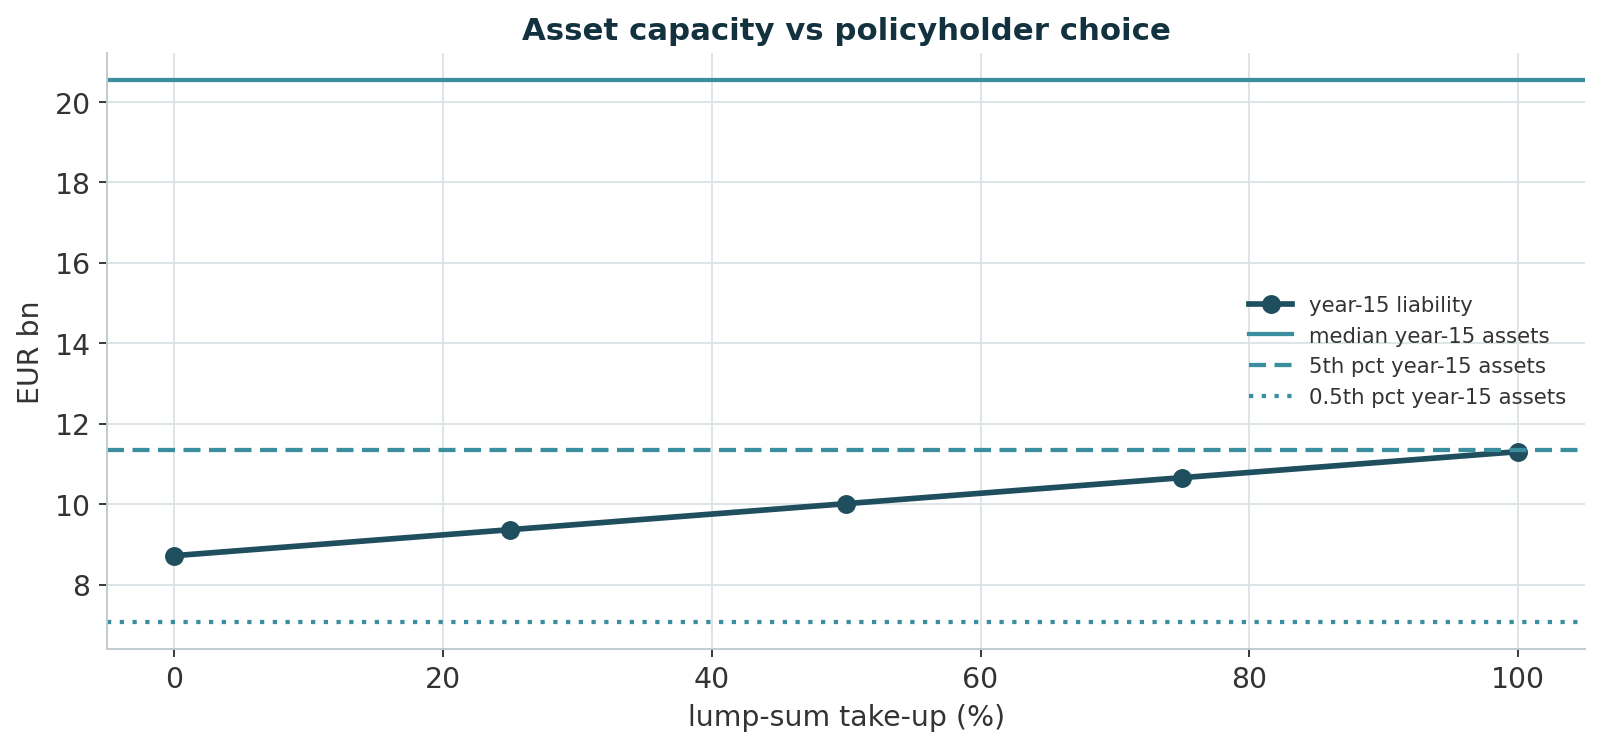
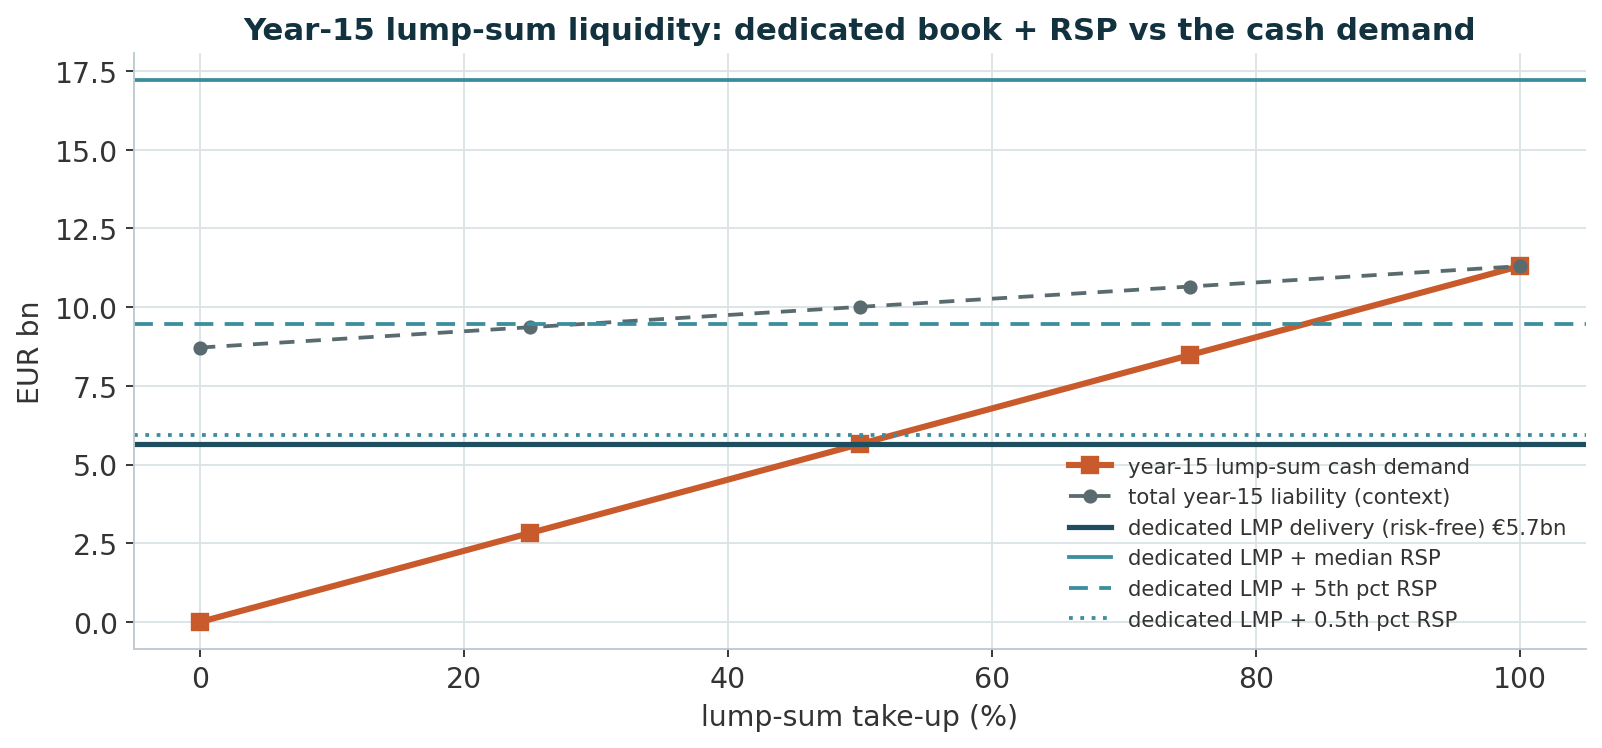
Case 3b: fix the year-15 liquidity metric in mc_lifecycle (charts 06/07)
The FI book is cash-flow-dedicated to the 50/50 schedule, so it delivers its
year-15 slice (EUR 5.65bn) by contract - risk-free. A liquidity shortfall can
only arise ABOVE the matched 50% election, when the excess lump demand must be
raised by selling the RSP at market:

  liquidity_shortfall(s) = P( RSP_15 < max(0, lump_need(s) - 5.65bn) )

  <= 50% election : 0.00%   (dedicated LMP covers it)
  75%             : 2.71%
  100%            : 12.56%  (conservative - ignores that a 100%-lump election
                             leaves no pension tail, freeing the rest of the LMP)

Chart 07 recast as year-15 lump-sum cash demand vs dedicated LMP delivery +
RSP percentiles. Deck untouched.

diff --git a/Case 3/mc_lifecycle.py b/Case 3/mc_lifecycle.py
@@ -120,6 +120,7 @@ def simulate():
     paths = np.zeros((N_SIM, HORIZON + 1))
     paths[:, 0] = lmp + rsp
     contrib = np.zeros(HORIZON + 1)
+    lmp15 = rsp15 = None
     for t in range(1, HORIZON + 1):
         lmp = lmp * (1.0 + r_fi[:, t - 1])
         rsp = rsp * (1.0 + r_rsp[:, t - 1])
@@ -127,6 +128,8 @@ def simulate():
             rsp = rsp + CONTRIB_EUR
             contrib[t] = CONTRIB_EUR
         paths[:, t] = lmp + rsp
+        if t == 15:
+            lmp15, rsp15 = lmp.copy(), rsp.copy()
 
     # ---- annual portfolio return (contribution-stripped) ---------------
     ann = (paths[:, 1:] - contrib[1:]) / paths[:, :-1] - 1.0
@@ -139,7 +142,7 @@ def simulate():
     irr = _irr_vec(cf, a15, HORIZON)
 
     return dict(sl=sl, liab=liab, paths=paths, ann=ann, irr=irr, a15=a15,
-                r_rsp=r_rsp, r_fi=r_fi)
+                lmp15=lmp15, rsp15=rsp15, r_rsp=r_rsp, r_fi=r_fi)
 
 
 def _irr_vec(cf_wo_terminal, terminal, T, lo=-0.5, hi=1.0, iters=80):
@@ -235,32 +238,48 @@ def charts(res):
     _style(ax); _save(fig, "lc_05_funding_ratio_distribution.png")
 
     # 06 - policyholder-choice sensitivity ------------------------
+    # The FI book is cash-flow-dedicated to the 50/50 schedule, so it delivers
+    # its year-15 slice (LUMP50) by contract - risk-free, whatever rates do.
+    # A liquidity shortfall can only arise ABOVE the matched 50% election, when
+    # the excess lump demand must be raised by selling the RSP at market.
+    rsp15 = res["rsp15"]
+    LUMP50 = float(liab.loc[50.0, "Lump_Sum_at_Year15"])       # dedicated yr-15 delivery
     shares = [0.0, 25.0, 50.0, 75.0, 100.0]
     under, liq = [], []
     for s in shares:
         Ls = float(liab.loc[s, "Total_Liability_Year15"])
         lump = float(liab.loc[s, "Lump_Sum_at_Year15"])
+        excess = max(0.0, lump - LUMP50)                       # must come from the RSP
         under.append(np.mean(a15 < Ls) * 100)
-        liq.append(np.mean(a15 < lump) * 100)
+        liq.append(np.mean(rsp15 < excess) * 100 if excess > 0 else 0.0)
     fig, ax = plt.subplots(figsize=(9.6, 4.6))
-    ax.plot(shares, under, color=DTEAL, lw=2.4, marker="o", ms=7, label="underfunding probability")
-    ax.plot(shares, liq, color=ORANGE, lw=2.4, marker="s", ms=7, label="liquidity-shortfall probability")
+    ax.plot(shares, under, color=DTEAL, lw=2.4, marker="o", ms=7, label="underfunding probability (assets < liability, MtM)")
+    ax.plot(shares, liq, color=ORANGE, lw=2.4, marker="s", ms=7,
+            label="liquidity-shortfall probability (excess lump not coverable by the RSP)")
+    ax.axvline(50, color="#8AA0A6", lw=1, ls=":")
+    ax.text(51, ax.get_ylim()[1] * 0.9, "matched election\n(dedicated LMP covers the lump)",
+            fontsize=8.5, color="#5A6B70")
     ax.set_xlabel("policyholders electing the lump sum (%)")
     ax.set_ylabel("probability (%)")
-    ax.set_title("Policyholder-choice sensitivity")
-    ax.legend(frameon=False, fontsize=10)
+    ax.set_title("Policyholder-choice sensitivity – liquidity risk only above the matched 50%")
+    ax.legend(frameon=False, fontsize=8.8)
     _style(ax); _save(fig, "lc_06_policyholder_sensitivity.png")
 
-    # 07 - asset capacity vs policyholder choice -----------------
-    Lline = [float(liab.loc[s, "Total_Liability_Year15"]) / 1e9 for s in shares]
+    # 07 - year-15 lump-sum liquidity vs the dedicated book + RSP -----------
+    lump_line = [float(liab.loc[s, "Lump_Sum_at_Year15"]) / 1e9 for s in shares]
+    L_line = [float(liab.loc[s, "Total_Liability_Year15"]) / 1e9 for s in shares]
     fig, ax = plt.subplots(figsize=(9.6, 4.6))
-    ax.plot(shares, Lline, color=DTEAL, lw=2.4, marker="o", ms=7, label="year-15 liability")
-    for q, ls, lab in [(50, "-", "median"), (5, (0, (4, 2)), "5th pct"),
-                       (0.5, (0, (1, 2)), "0.5th pct")]:
-        ax.axhline(np.percentile(a15, q) / 1e9, color=TEAL, lw=1.8, ls=ls,
-                   label=f"{lab} year-15 assets")
+    ax.plot(shares, lump_line, color=ORANGE, lw=2.6, marker="s", ms=7,
+            label="year-15 lump-sum cash demand")
+    ax.plot(shares, L_line, color="#5A6B70", lw=1.6, ls=(0, (4, 3)), marker="o", ms=5,
+            label="total year-15 liability (context)")
+    ax.axhline(LUMP50 / 1e9, color=DTEAL, lw=2.2,
+               label=f"dedicated LMP delivery (risk-free) €{LUMP50/1e9:.1f}bn")
+    for q, ls, lab in [(50, "-", "median"), (5, (0, (5, 3)), "5th pct"), (0.5, (0, (1, 2)), "0.5th pct")]:
+        ax.axhline((LUMP50 + np.percentile(rsp15, q)) / 1e9, color=TEAL, lw=1.6, ls=ls,
+                   label=f"dedicated LMP + {lab} RSP")
     ax.set_xlabel("lump-sum take-up (%)"); ax.set_ylabel("EUR bn")
-    ax.set_title("Asset capacity vs policyholder choice")
+    ax.set_title("Year-15 lump-sum liquidity: dedicated book + RSP vs the cash demand")
     ax.legend(frameon=False, fontsize=9)
     _style(ax); _save(fig, "lc_07_asset_vs_liability.png")
 
@@ -268,8 +287,12 @@ def charts(res):
 def report(res):
     liab, paths, irr, a15, ann = (res["liab"], res["paths"], res["irr"],
                                   res["a15"], res["ann"])
+    rsp15 = res["rsp15"]
     L50 = float(liab.loc[50.0, "Total_Liability_Year15"])
+    LUMP50 = float(liab.loc[50.0, "Lump_Sum_at_Year15"])
     q = lambda x, p: float(np.percentile(x, p))
+    liq = lambda s: (np.mean(rsp15 < max(0.0, float(liab.loc[s, "Lump_Sum_at_Year15"]) - LUMP50)) * 100
+                     if float(liab.loc[s, "Lump_Sum_at_Year15"]) > LUMP50 else 0.0)
     L = [
         "# Case 3b - 15-year accumulation Monte-Carlo (consistent pipeline)\n",
         f"{N_SIM:,} paths, annual steps, Student-t (df {DF_T}).  Funding waterfall: "
@@ -290,6 +313,14 @@ def report(res):
         f"| P(underfunded, 50/50) | {np.mean(a15 < L50)*100:.2f}% |",
         f"| P(underfunded, 100% lump) | {np.mean(a15 < float(liab.loc[100.0,'Total_Liability_Year15']))*100:.2f}% |",
         f"| mean annual portfolio return | {ann.mean()*100:.2f}% |",
+        "",
+        "**Year-15 lump-sum liquidity** (LMP dedicated to the 50/50 schedule delivers "
+        f"EUR {LUMP50/1e9:.2f}bn risk-free; excess demand raised by selling the RSP):",
+        "| lump-sum election | excess over dedicated | P(RSP cannot cover) |",
+        "|---|--:|--:|",
+        f"| <= 50% (matched) | EUR 0.0bn | 0.00% |",
+        f"| 75% | EUR {(float(liab.loc[75.0,'Lump_Sum_at_Year15'])-LUMP50)/1e9:.2f}bn | {liq(75.0):.2f}% |",
+        f"| 100% | EUR {(float(liab.loc[100.0,'Lump_Sum_at_Year15'])-LUMP50)/1e9:.2f}bn | {liq(100.0):.2f}% |",
         "",
         "Charts: presentation/assets/lc_01..07_*.png",
     ]

diff --git a/Case 3/results_var/MC_LIFECYCLE_REPORT.md b/Case 3/results_var/MC_LIFECYCLE_REPORT.md
@@ -16,4 +16,11 @@
 | P(underfunded, 100% lump) | 4.95% |
 | mean annual portfolio return | 6.25% |
 
+**Year-15 lump-sum liquidity** (LMP dedicated to the 50/50 schedule delivers EUR 5.65bn risk-free; excess demand raised by selling the RSP):
+| lump-sum election | excess over dedicated | P(RSP cannot cover) |
+|---|--:|--:|
+| <= 50% (matched) | EUR 0.0bn | 0.00% |
+| 75% | EUR 2.83bn | 2.71% |
+| 100% | EUR 5.65bn | 12.56% |
+
 Charts: presentation/assets/lc_01..07_*.png
